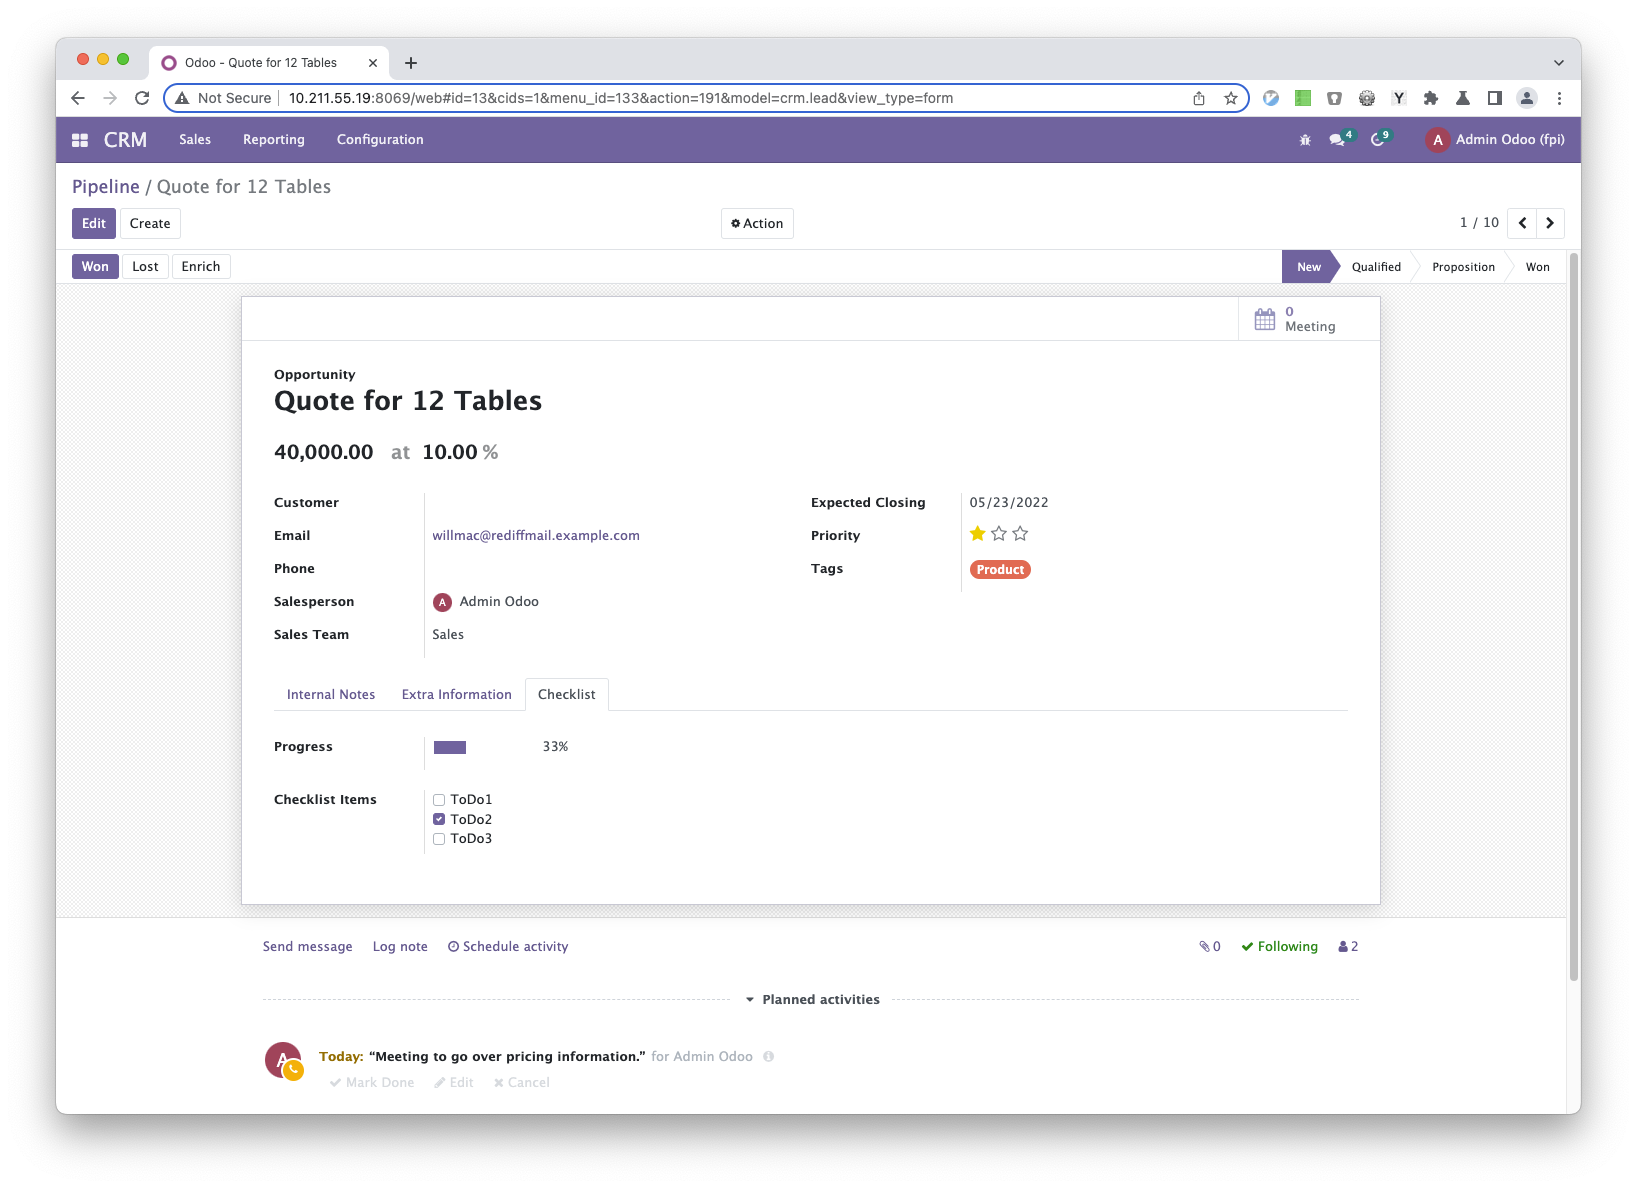
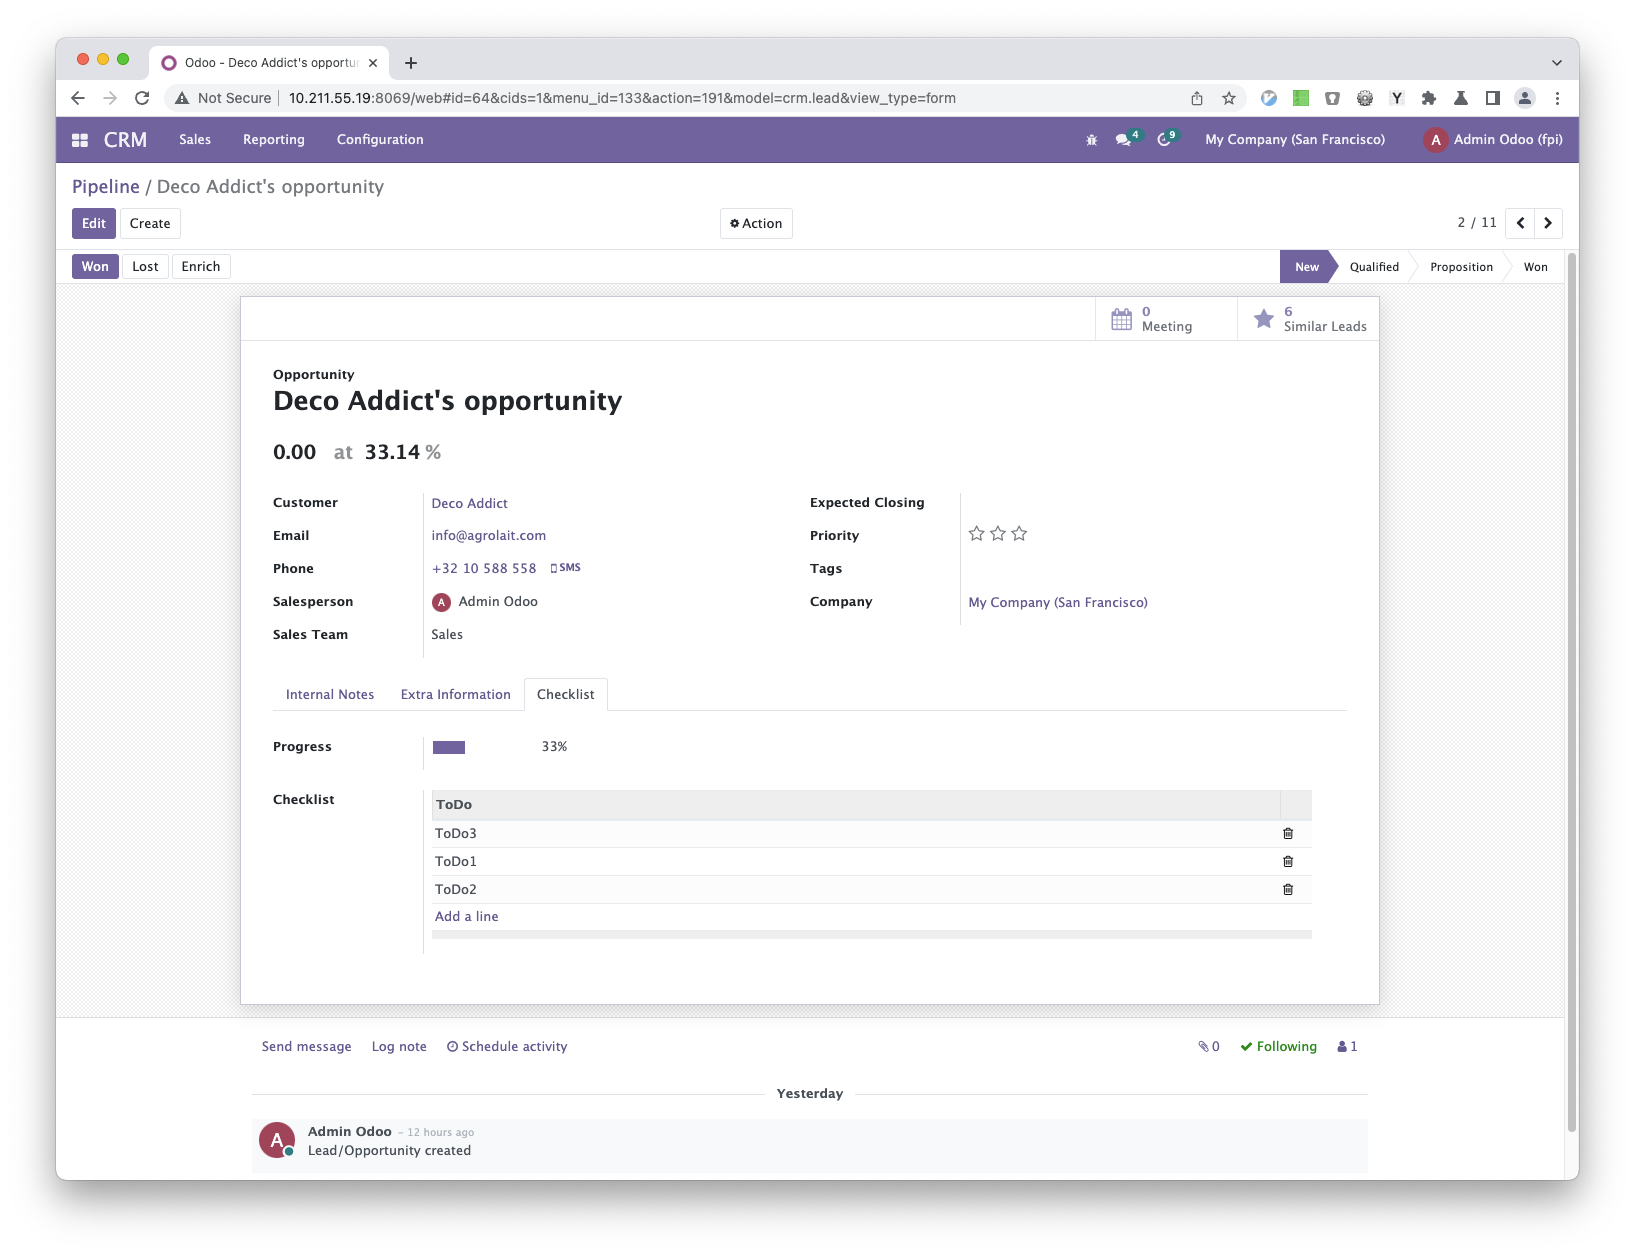
Change model
A checklist is now prefilled with all available items but is editable.

diff --git a/models/models.py b/models/models.py
@@ -3,40 +3,77 @@
 from odoo import models, fields, api
 from odoo.addons.crm.models.crm_lead import Lead
 
+import logging
+_logger = logging.getLogger(__name__)
+
 class ChecklistItem(models.Model):
     _name = 'crm.lead.checklist.item'
     _description = 'Entry on a lead checklist'
+
     _sql_constraints = [
         ('uniq_name', 'unique(name)', "A item with this name exists already")
     ]
 
     name = fields.Char(required=True, translate=True)
 
+class ChecklistEntry(models.Model):
+    _name = 'crm.lead.checklist.entry'
+    _description = 'Relation between Lead and Checklist Item'
+    _rec_name = 'item_id'
+
+    lead_id = fields.Many2one('crm.lead', string='Chance', ondelete='cascade')
+    item_id = fields.Many2one('crm.lead.checklist.item', string='ToDo', ondelete='cascade')
+    done = fields.Boolean('Done', default=True)
+
+    _sql_constraints = [
+        ('uniq_entry', 'unique(lead_id,item_id)', "This item is on checklist already")
+    ]
+
 class Checklist(models.Model):
     _inherit = 'crm.lead'
 
-    progress = fields.Integer(compute='_compute_progress')
-
-    checklist_item_ids = fields.Many2many(
-        'crm.lead.checklist.item', 'crm_lead_checklist_rel', 'lead_id', 'checklist_item_id',
-        string="Checklist Items", tracking=True
-    )
-
     def _compute_progress(self):
         for rec in self:
-            fin_items = len(rec.checklist_item_ids)
-            max_items = len(self.env['crm.lead.checklist.item'].search([]))
-            rec.progress = 100 * fin_items / max_items
+            progress = 0
 
-    @api.onchange('checklist_item_ids')
+            if rec.checklist:
+                max_items = len(rec.checklist)
+                if max_items > 0:
+                    fin_items = 0
+                    for item in rec.checklist:
+                        if item.done:
+                            fin_items += 1
+
+                    progress = 100 * fin_items / max_items
+
+            rec.progress = progress
+
+    @api.onchange('checklist')
     def _onchange_checklist(self):
         self._compute_progress()
 
-        values = []
-        for cb in self.checklist_item_ids:
-            values.append(cb.id.origin)
-        values = list(set(values))
+    @api.model
+    def _get_checklist_default(self):
+        _logger.debug('* * * * * DEFAULTS * * * * *')
 
-        the_id = self.id.origin
+        avail_items = self.env['crm.lead.checklist.item']
+        avail_item_ids = avail_items.search([])
 
-        self.write({ 'checklist_item_ids': [(6, the_id, values)] })
+        entries = []
+        for rec in avail_item_ids:
+            entries.append({
+                'lead_id': self.env.uid,
+                'item_id': rec.id,
+                'done': True,
+            })
+
+        return entries
+
+    checklist = fields.One2many(
+        'crm.lead.checklist.entry',
+        'lead_id',
+        string="Checklist",
+        copy=True,
+        default=_get_checklist_default,
+    )
+    progress = fields.Integer(compute='_compute_progress')
